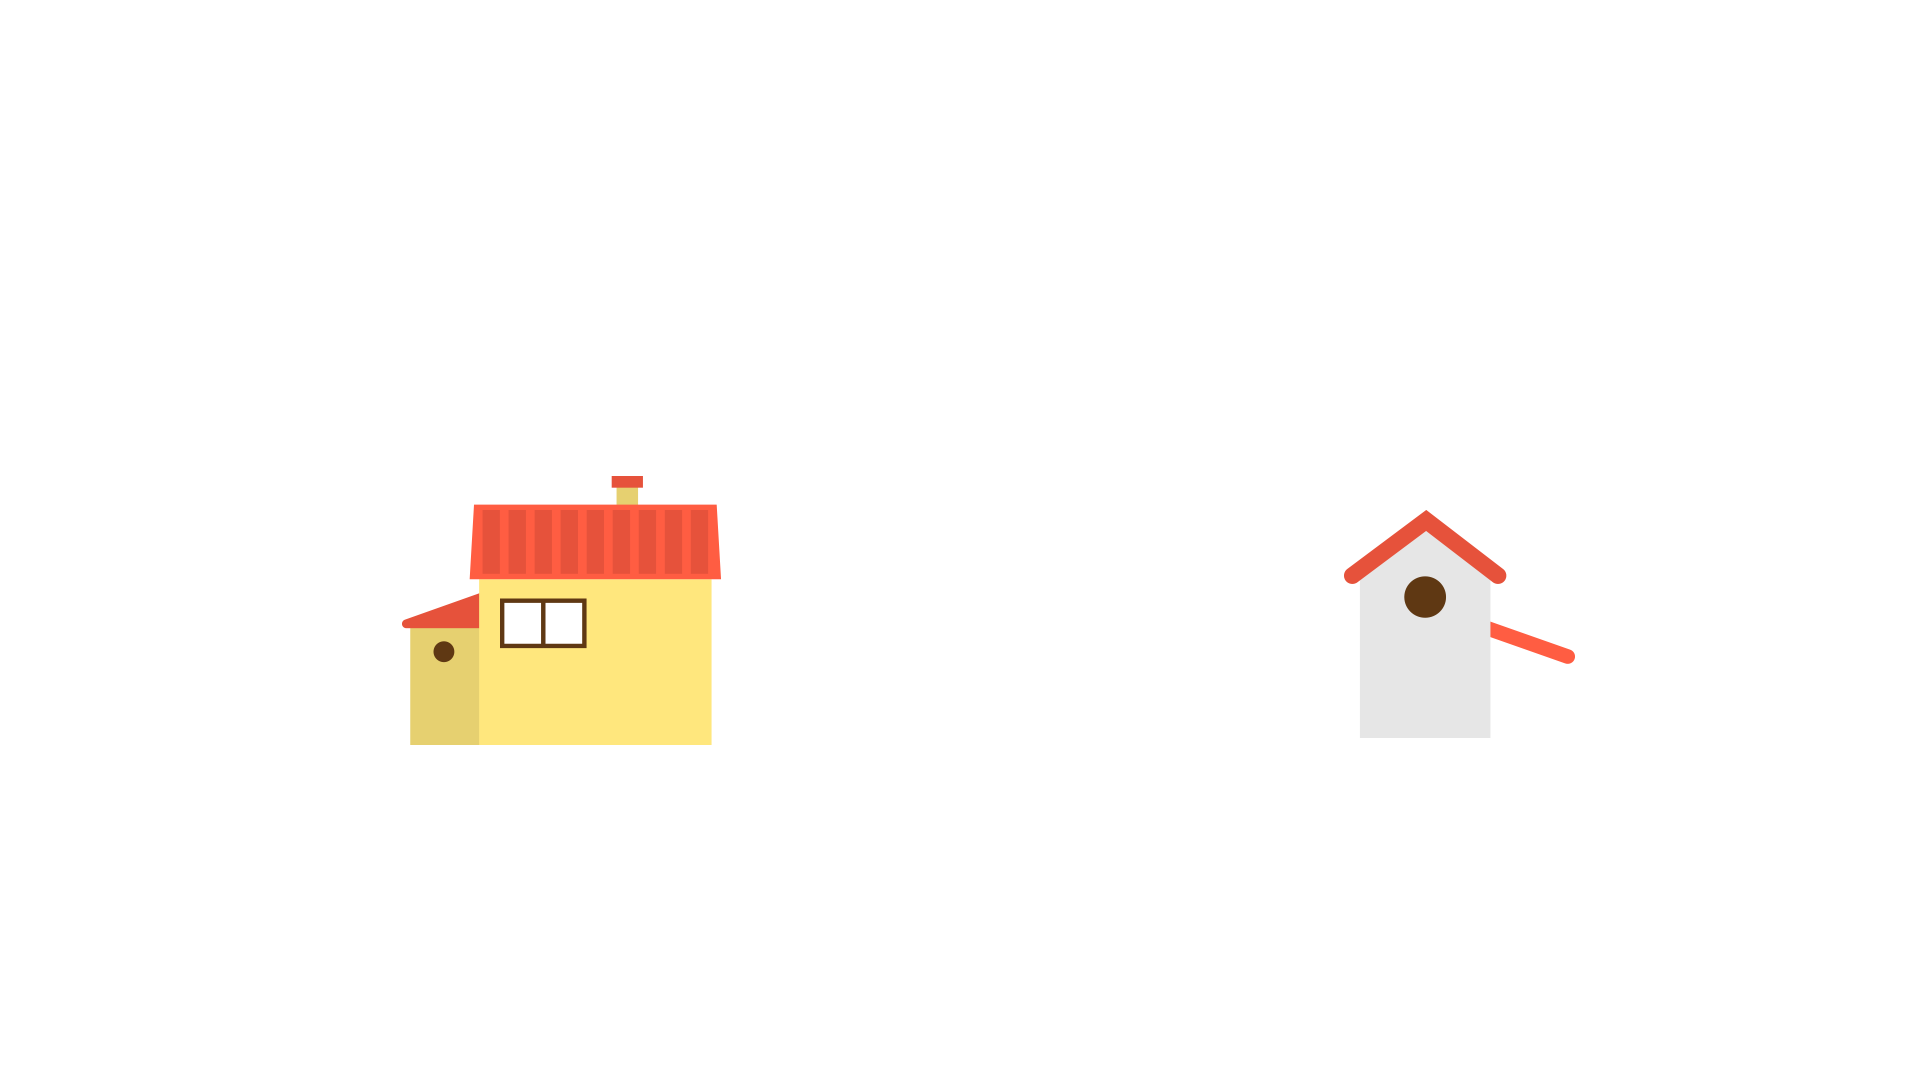
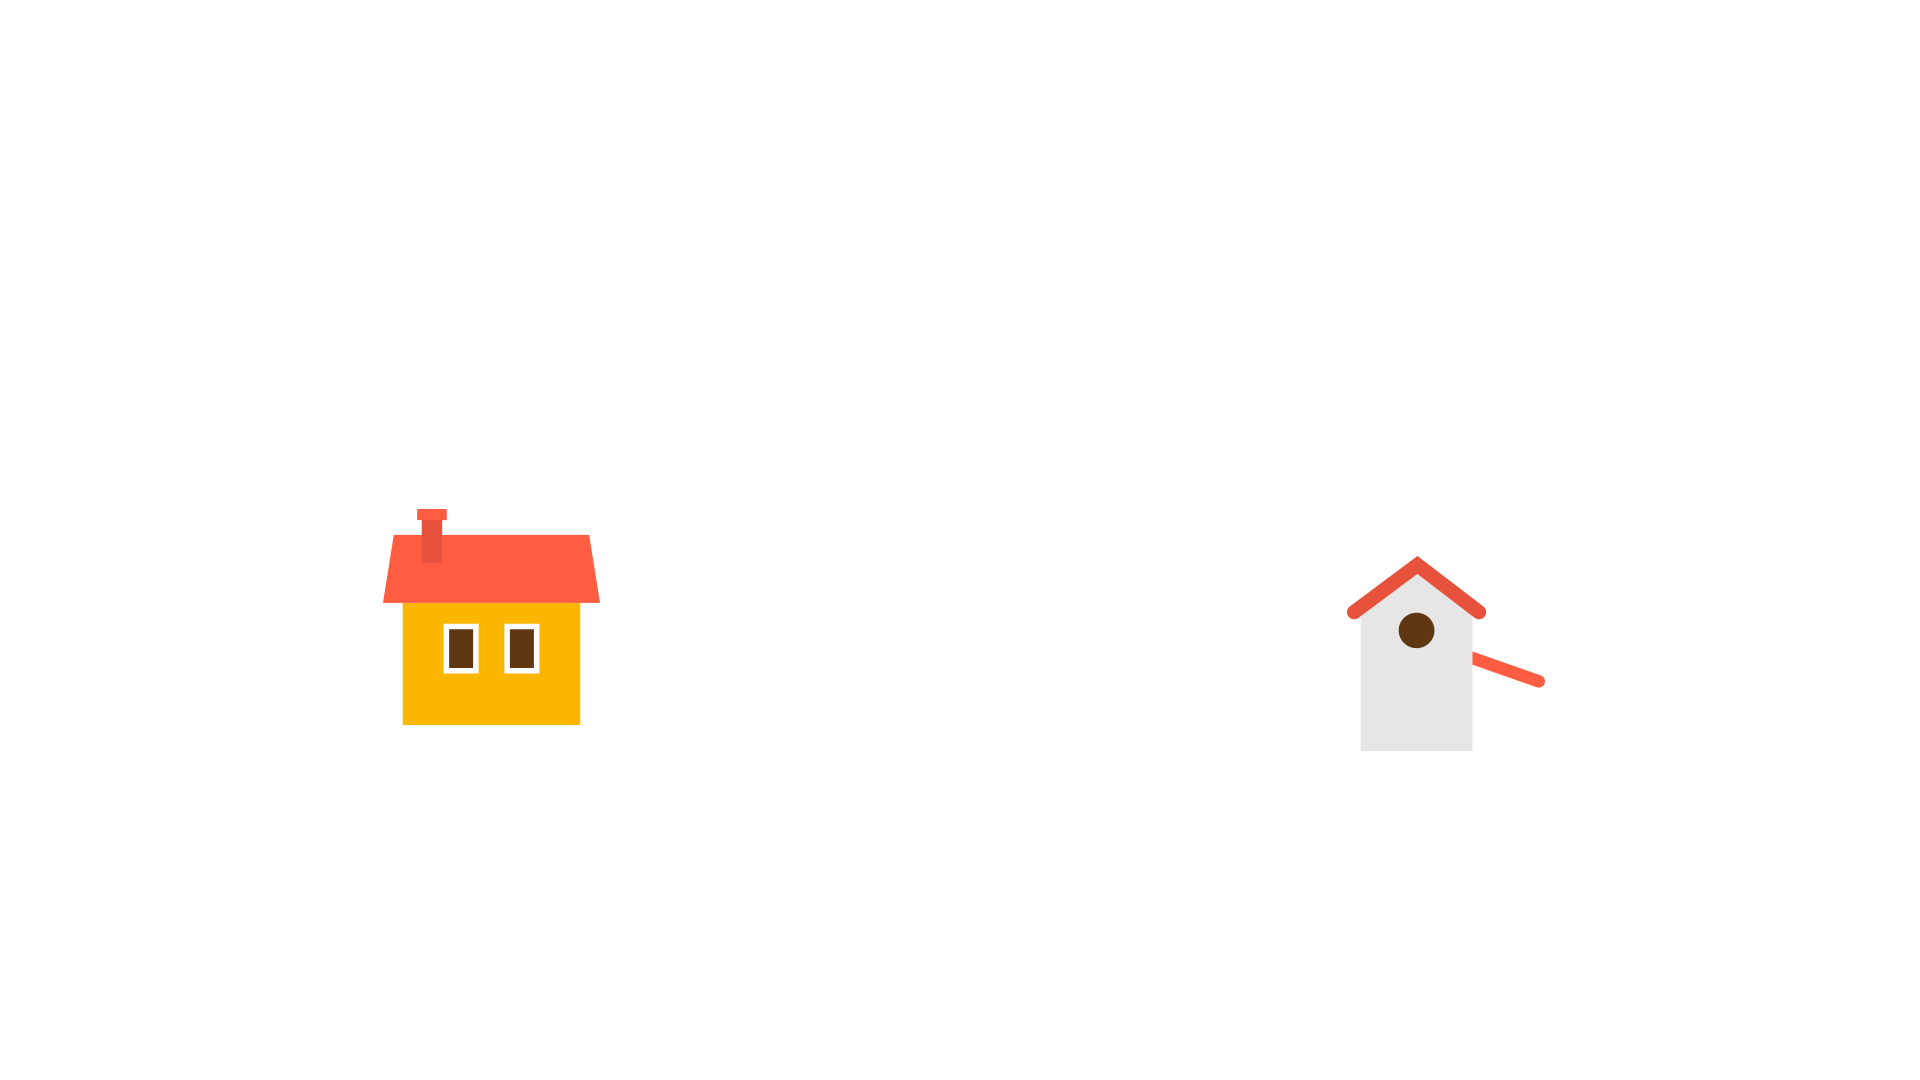
Many modifications on feedback

Changed region(s): [[0.1875, 0.4278, 0.375, 0.7028], [0.6875, 0.4583, 0.8125, 0.7028]]

diff --git a/src/parallax/index.html b/src/parallax/index.html
@@ -57,8 +57,7 @@
 		  data-scalar-x="25"
 		  data-scalar-y="15">
 		<li class="layer" data-depth="0.00"><div class="background"></div></li>
-		<li class="layer" data-depth="0.10"><div class="mountain"></div></li>
-		<li class="layer" data-depth="0.15"><h1 class="title"><b>felicity<em>17</em></b></h1></li>
+		<li class="layer" data-depth="0.08"><div class="mountain"></div></li>
 		<!--li class="layer" data-depth="0.15">
 		  <ul class="rope depth-10">
 			<li><img src="assets/images/rope.png" alt="Rope"></li>
@@ -85,11 +84,18 @@
 			</li>
 		  </ul>
 		</li-->
+		<li id="temp" class="layer" data-depth="0.15" ><div class="cloud cloud-1"></div></li>
+		<li class="layer" data-depth="0.09"><div class="cloud cloud-2"></div></li>
+		<li class="layer" data-depth="0.15"><div class="cloud cloud-3"></div></li>
+		<li class="layer" data-depth="0.09"><div class="cloud cloud-4"></div></li>
+		<li class="layer" data-depth="0.15"><div class="cloud cloud-5"></div></li>
 		<li class="layer" data-depth="0.20"><div class="land2"></div></li>
+		<li class="layer" data-depth="0.21"><div class="land3"></div></li>
 		<li class="layer" data-depth="0.23"><div class="house"></div></li>
 		<li class="layer" data-depth="0.27"><div class="land"></div></li>
 		<li class="layer" data-depth="0.40"><div class="wave plain depth-40"></div></li>
 		<li class="layer" data-depth="0.50"><div class="wave paint depth-50"></div></li>
+		<li class="layer" data-depth="0.28"><h1 class="title"><b>felicity<em>17</em></b></h1></li>
 		<!--li class="layer" data-depth="0.60"><div class="lighthouse depth-60"></div></li -->
 		<!--li class="layer" data-depth="0.60">
 		  <ul class="rope depth-60">

diff --git a/src/parallax/assets/styles/css/styles.css b/src/parallax/assets/styles/css/styles.css
@@ -273,7 +273,7 @@ h1, h2, h3 {
 }
 
 h1 {
-	font-size: 2.83333em;
+	font-size: 3.83333em;
 }
 
 h2 {
@@ -841,6 +841,16 @@ footer .twitter-share-button {
 	top: 0%;
 }
 
+.land3 {
+	background: url(../../images/1hill.png) no-repeat 50% 100%;
+	bottom: -200px;
+	background-size: cover;
+	position: absolute;
+	width: 105%;
+	left: -5%;
+	top: 15%;
+}
+
 .house {
 	background: url(../../images/2house.png) no-repeat 50% 100%;
 	bottom: -90px;
@@ -876,20 +886,57 @@ footer .twitter-share-button {
 	left: -100%;
 }
 .wave:after {
-	background-color: black;
+	background-color: #10e4e8;
 	position: absolute;
 	display: block;
 	content: "";
-	height: 500px;
 	width: 100%;
-	top: 100%;
+	top: 150%;
 	left: 0;
 }
 .wave.plain {
-	background-image: url(../../images/wave1.png);
+	background-image: url(../../images/wave2.png);
 }
 .wave.paint {
-	background-image: url(../../images/wave2.png);
+	background-image: url(../../images/wave1.png);
+}
+
+.cloud {
+	background-image: url(../../images/cloud-1.png);
+	background-size: cover;
+	position: absolute;
+	width: 103%;
+}
+
+.cloud-1 {
+	bottom: -90px;
+	left: -80%;
+	top: 2%;	
+}
+
+
+.cloud-2 {
+	bottom: -40px;
+	left: -60%;
+	top: -4%;	
+}
+
+.cloud-3 {
+	bottom: -90px;
+	left: -44%;
+	top: 2%;	
+}
+
+.cloud-4 {
+	bottom: -40px;
+	left: -27%;
+	top: -4%;	
+}
+
+.cloud-5 {
+	bottom: -90px;
+	left: -2%;
+	top: 2%;	
 }
 
 .light {
